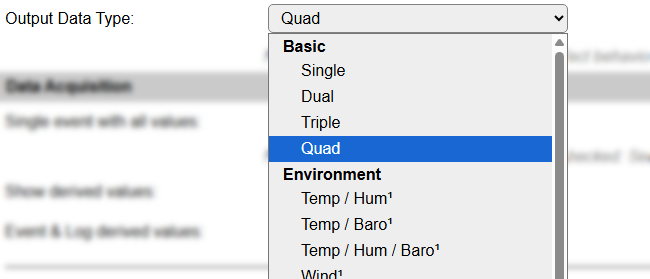
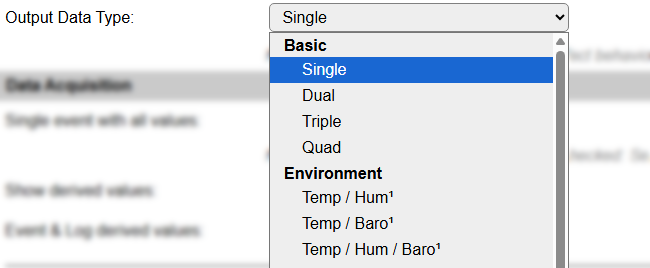
[P033] Update documentation

diff --git a/docs/source/Plugin/P033.rst b/docs/source/Plugin/P033.rst
@@ -32,6 +32,16 @@ Dummy tasks can be used like temporary variables to store data.
 One nice benefit is that these task values of Dummy tasks are also kept in RTC memory.
 So these may survive a reboot, as long as the ESP remains powered.
 
+Device Configuration
+--------------------
+
+.. image:: P033_DeviceConfiguration.png
+
+* **Name**: Required by ESPEasy, must be unique among the list of available devices/tasks.
+
+* **Enabled**: The device can be disabled or enabled. When not enabled the device should not use any resources.
+
+
 Storing Values
 --------------
 
@@ -77,7 +87,7 @@ This selector is using a categorized display when the build includes this enhanc
 
 Available options, grouped per category:
 
-**Basic**: ``Single, Dual, Tripple, Quad``
+**Basic**: ``Single, Dual, Triple, Quad``
 
 **Environment**: ``Temp¹, Hum¹, Baro¹, Wind¹``
 
@@ -147,6 +157,13 @@ And all connected controllers of that task will be handed over the values presen
 
 Especially Domoticz controllers are very specific to the output data type.
 
+Values
+^^^^^^
+
+The plugin provides the ``Dummy`` value, that can be changed to the desired name. A formula can be set to recalculate the displayed, and sent, value. The number of decimals can be set as desired, and defaults to 2.
+
+In selected builds, per Value is a **Stats** checkbox available, that when checked, gathers the data and presents recent data in a graph, as described here: :ref:`Task Value Statistics:  <Task Value Statistics>`
+
 
 .. Supported hardware
 .. ------------------
@@ -168,6 +185,9 @@ Change log
 
 .. versionchanged:: 2.0
   ...
+
+  |improved|
+  2025-07-17 Add categorized output configuration (ESP32 only)
 
   |improved|
   2023-04-15 Add more types of task values, like (u)int32, (u)int64 and double.
